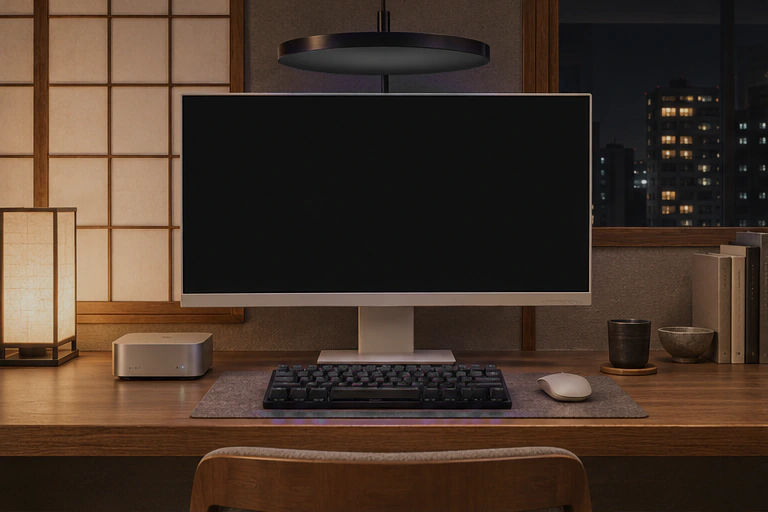
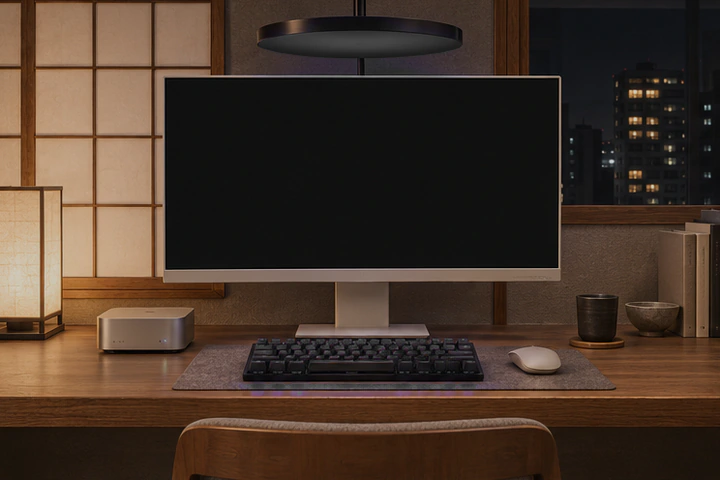
Align the main monitor across the homepage flipbook

diff --git a/docs/site/index.html b/docs/site/index.html
@@ -9,8 +9,8 @@
   <link rel="icon" type="image/png" sizes="32x32" href="site-icon.png">
   <link rel="icon" type="image/svg+xml" href="site-icon.svg" sizes="any">
   <link rel="stylesheet" href="site.css">
-  <link rel="stylesheet" href="home.css?v=flipbook-spill">
-  <script type="module" src="home.mjs?v=flipbook-spill"></script>
+  <link rel="stylesheet" href="home.css?v=flipbook-align">
+  <script type="module" src="home.mjs?v=flipbook-align"></script>
 </head>
 <body class="home-page">
   <nav class="site-nav" aria-label="Main navigation">
@@ -40,7 +40,7 @@
         <input class="scene-choice" type="radio" name="effect" id="scene-rainbow">
         <div class="scene-frame" id="scene-art" role="img" aria-label="Prismestra over a montage of different desks with synchronized lighting">
           <div class="scene-shot" data-shot="1" aria-hidden="true">
-            <img class="scene-photo" src="shots/flipbook/poster.webp?v=hd" alt="" width="768" height="512" fetchpriority="high">
+            <img class="scene-photo" src="shots/flipbook/poster.webp?v=aligned" alt="" width="720" height="480" fetchpriority="high">
             <div class="scene-light"></div>
           </div>
           <div class="scene-wordmark" aria-hidden="true"><img src="favicon.svg" alt="" width="40" height="40">Prismestra</div>

diff --git a/docs/site/home.css b/docs/site/home.css
@@ -56,7 +56,7 @@
   background: #17191e;
 }
 .scene-shot {
-  --light-mask: url("./shots/flipbook/poster-mask.webp?v=spill");
+  --light-mask: url("./shots/flipbook/poster-mask.webp?v=aligned");
   position: absolute;
   inset: 0;
   isolation: isolate;
@@ -93,7 +93,8 @@
 }
 .scene-wordmark {
   position: absolute;
-  inset: 0 0 24%;
+  /* The main screen is centered at 36% of each reframed photo. */
+  inset: 0 0 28%;
   display: flex;
   align-items: center;
   justify-content: center;
